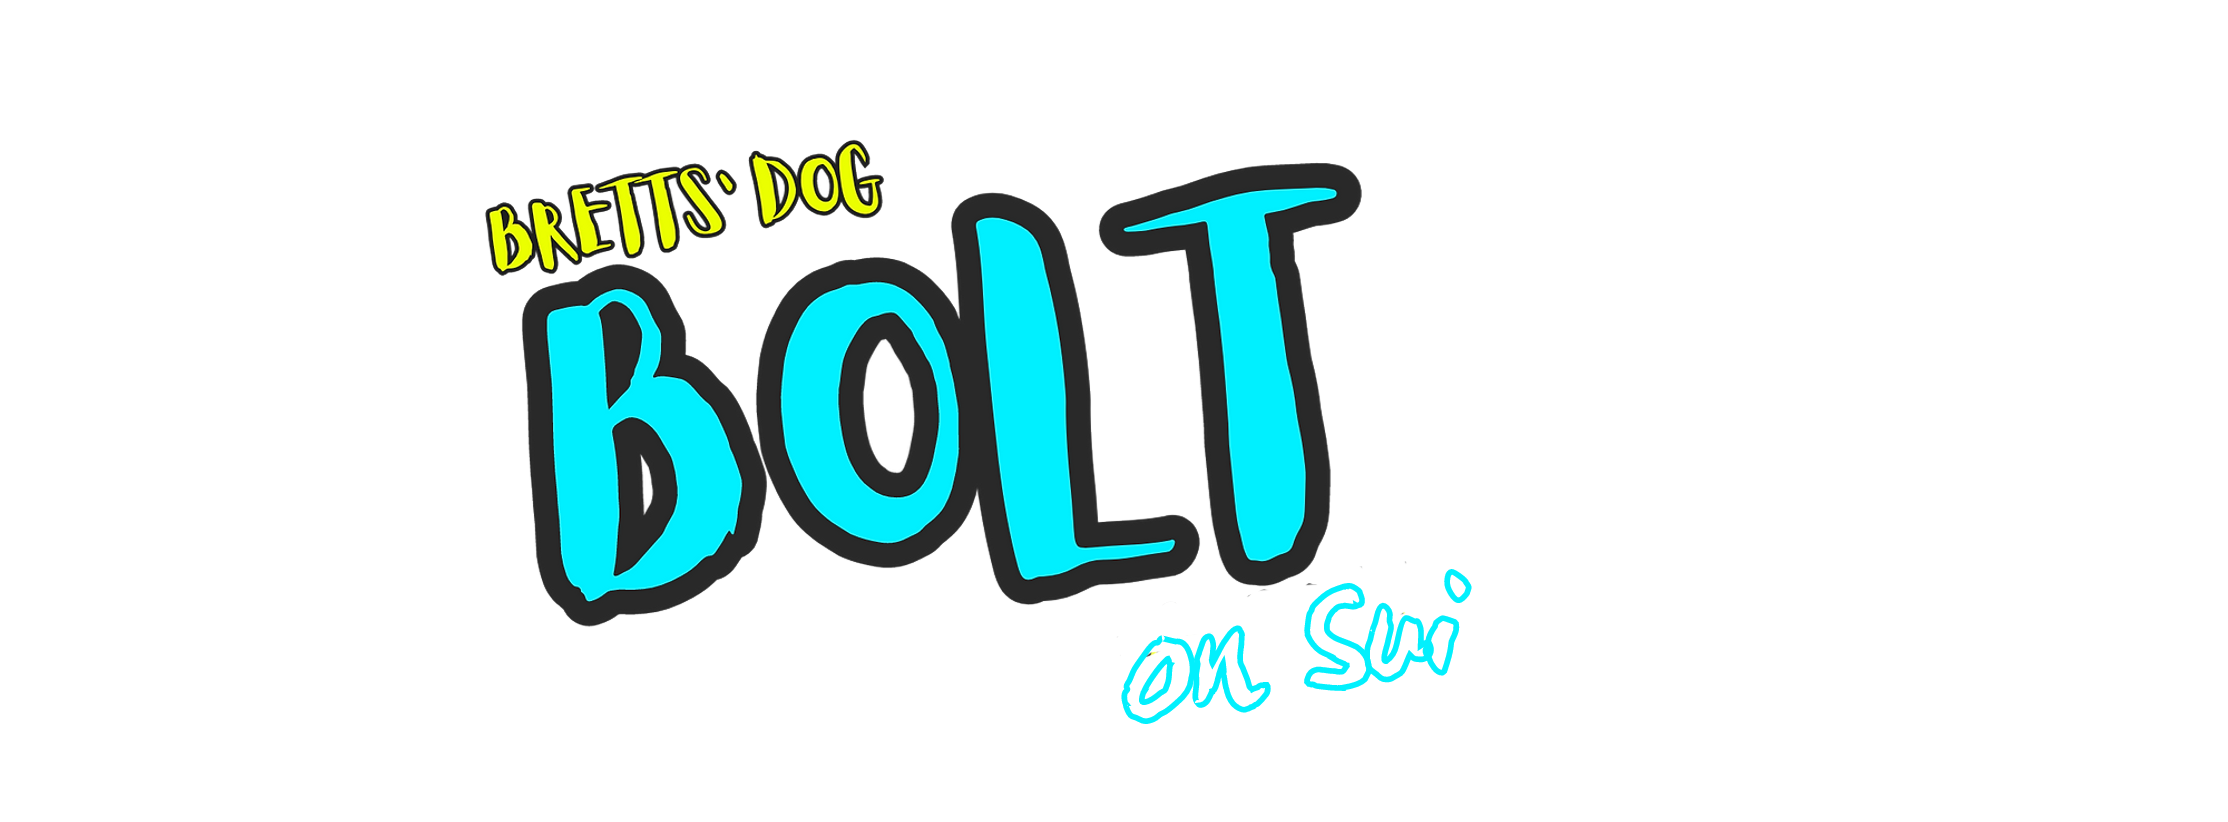
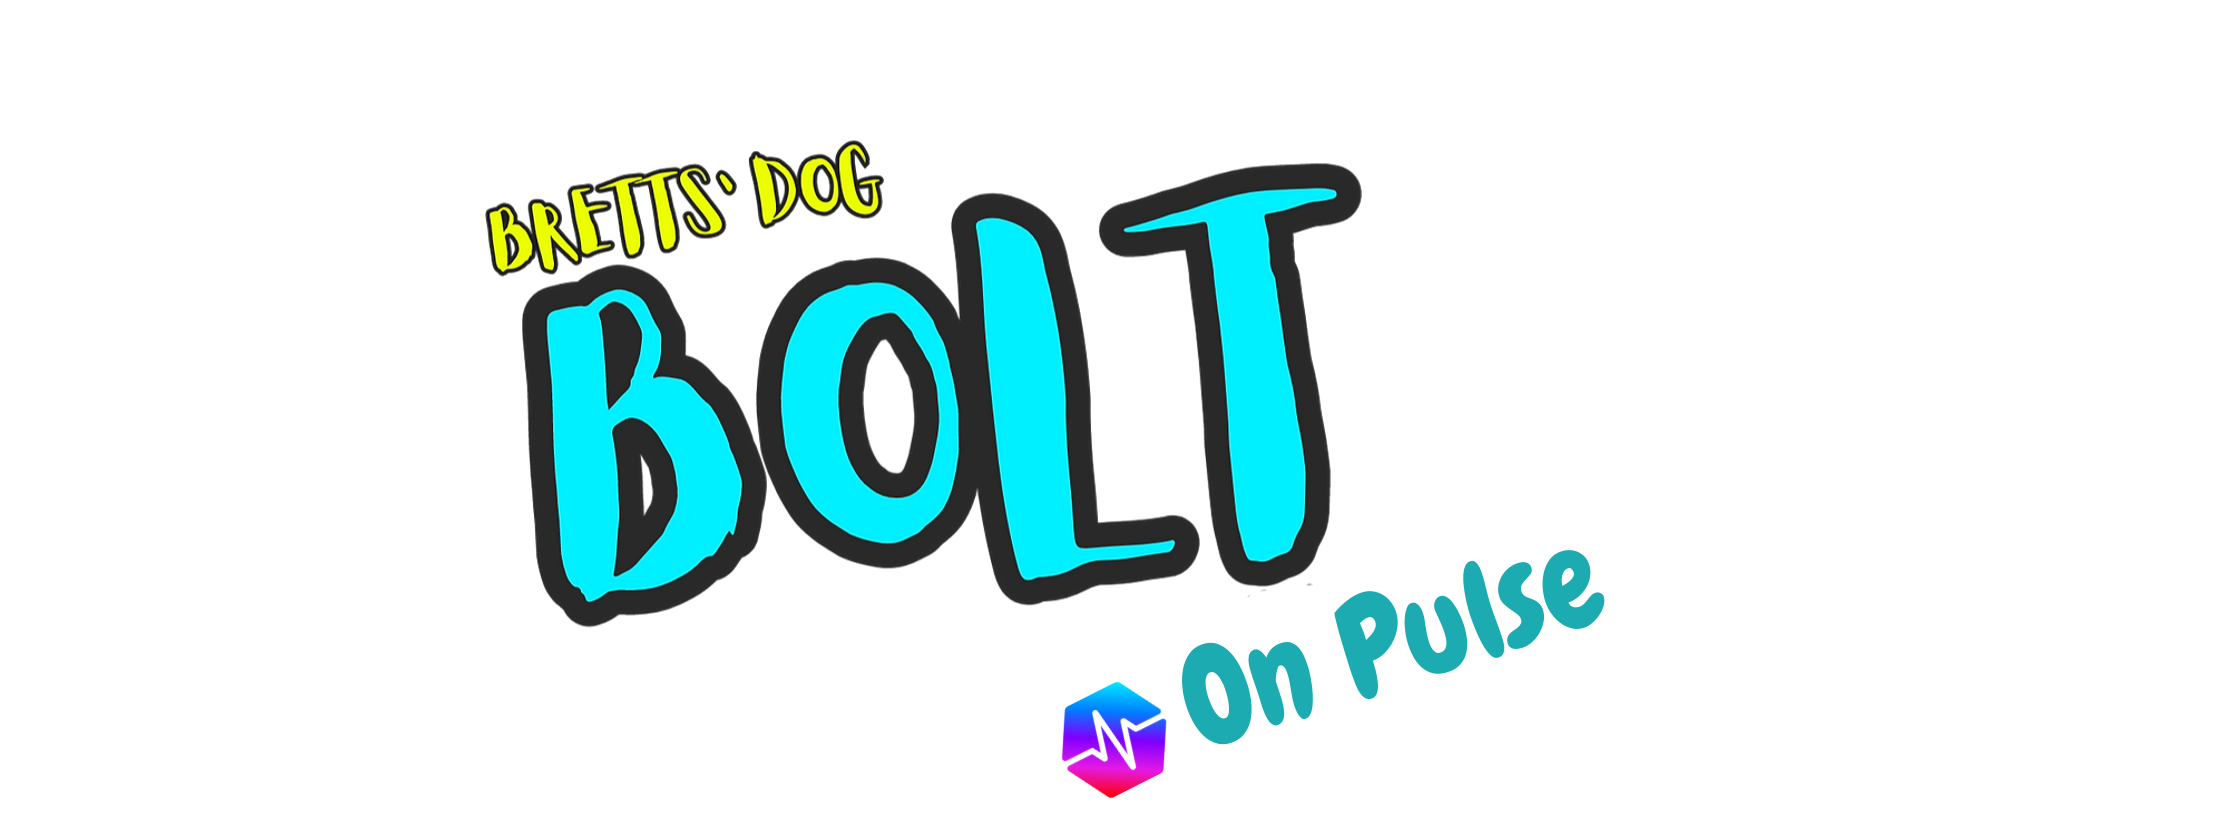
fix

Changed region(s): [[0.4645, 0.6691, 0.7433, 0.9732], [0.2168, 0.1825, 0.4026, 0.3345], [0.3407, 0.1825, 0.3716, 0.2129]]

diff --git a/index.html b/index.html
@@ -220,11 +220,11 @@
                             <span>
                                 Imagine a world where loyalty isn't just a trait but a currency.
                                 <br>
-                                Enter BOLT, man's best friend on base, the alpha dog of the digital realm.
+                                Enter BOLT, man's best friend on Pulse, the alpha dog of the digital realm.
                                 Inspired by the original character from Matt Furie, BOLT embodies community—a beacon of
                                 fun, inclusivity, and adventure in the meme universe.
                                 BRETT's beloved dog has become a cherished icon within his loyal pack.
-                                Join us as we walk our beloved $BOLT to the top of the base chain
+                                Join us as we walk our beloved $BOLT to the top of the Pulse chain
                             </span>
                         </p>
                     </div>
@@ -361,7 +361,7 @@
     <footer class="bg-blue-900 text-white py-4 text-center mt-10">
         <div class="container mx-auto">
             <!-- Disclaimer, social media icons, copyright here -->
-            <marquee class="text-sm text-white">The best dog on base, Bolt. Community Take Over</marquee>
+            <marquee class="text-sm text-white">The best dog on Pulse, Bolt. Community Take Over</marquee>
         </div>
     </footer>
 
